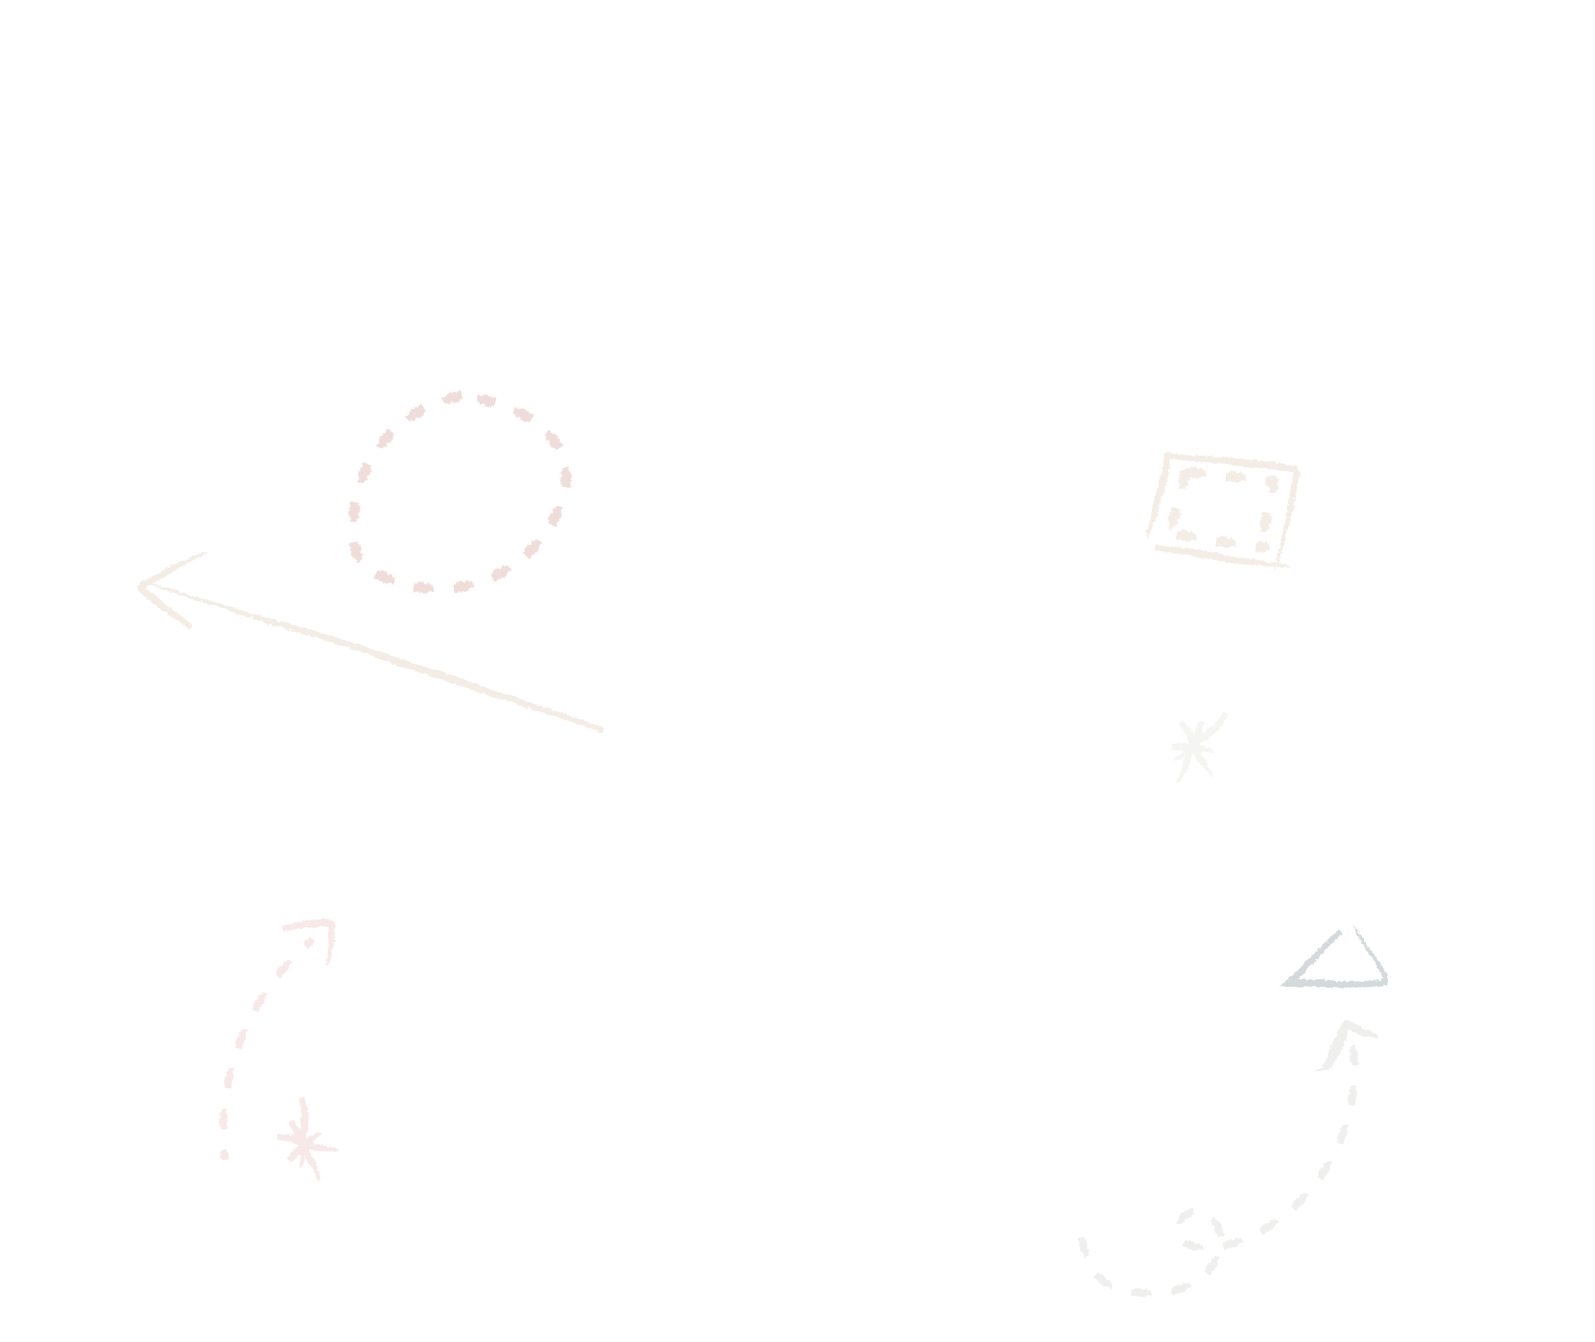
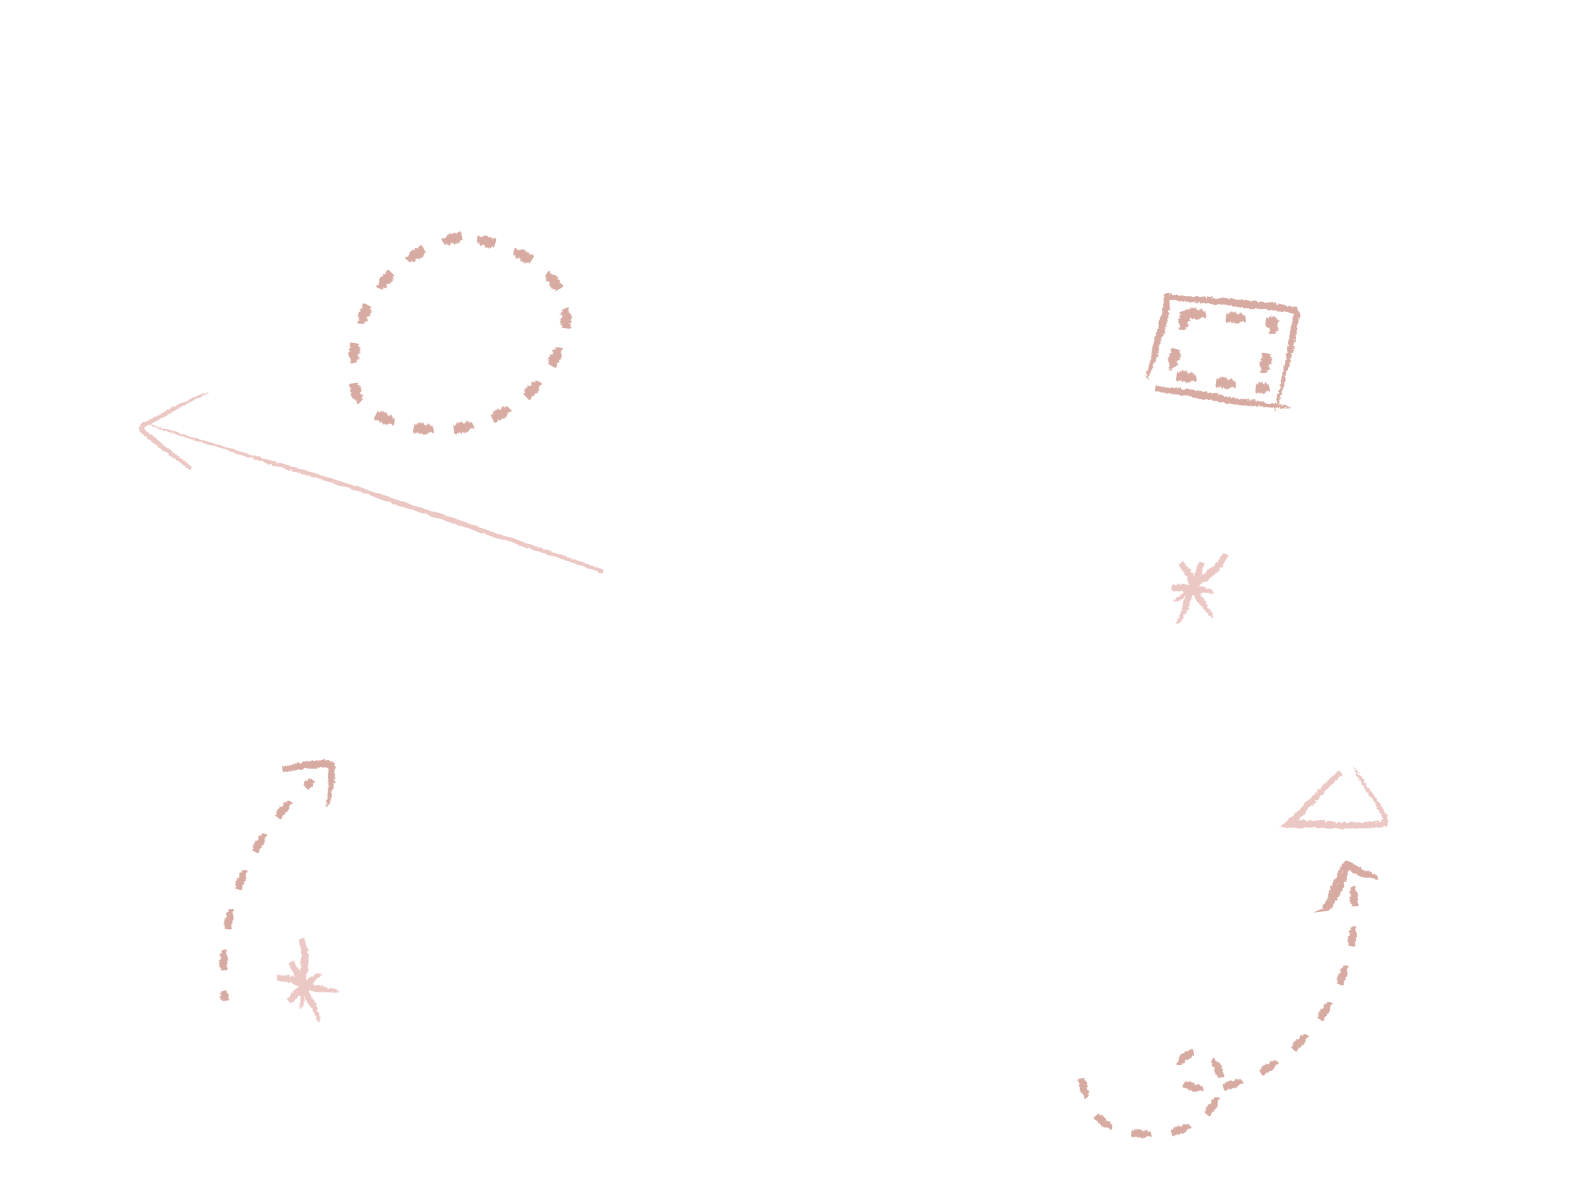
edit background img

diff --git a/fantastic-mrfox.html b/fantastic-mrfox.html
@@ -14,8 +14,8 @@
     <style>
     body {
       background-image: url('https://raw.githubusercontent.com/priscillaahn/wes-anderson-basemaps/main/img/fantastic_background.png');
-      background-size: cover;
-      /* background-size: 100%; */
+      /* background-size: cover; */
+      background-size: 100%;
       background-position: center;
       background-color: #934527;
     }
